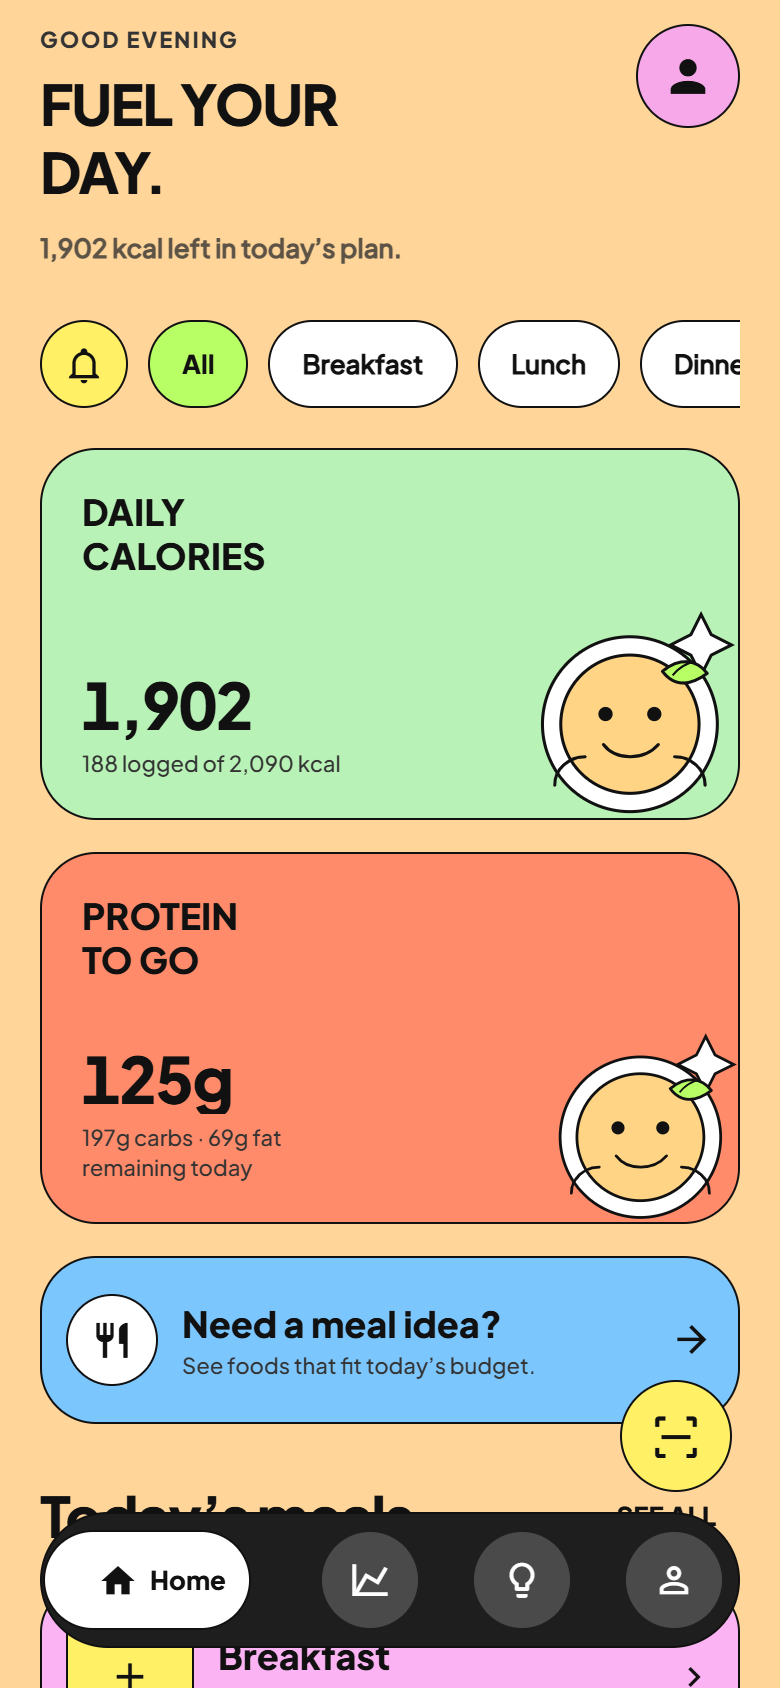
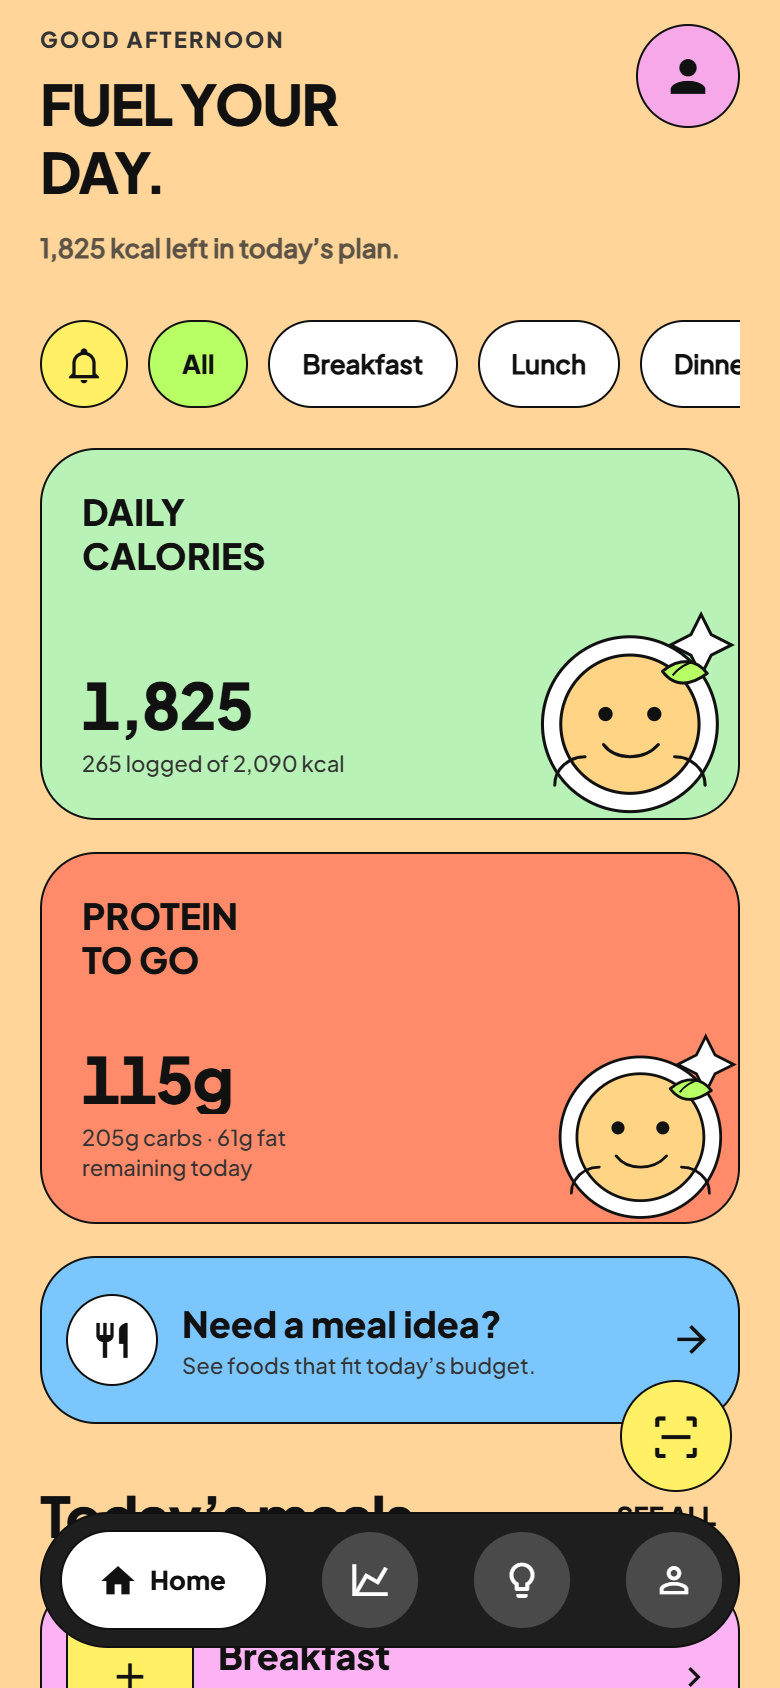
fix(website): show the current app screenshots on the landing page
The AI-result capture in assets/screens was still the pre-redesign green screen from the original site and nothing on the page referenced it any more. Replace it with a capture of the same screen from the current Expo build, and refresh the hero home capture from the same build.

Vercel caches /assets/screens/* for seven days under URLs that never changed, so a replaced screenshot could keep showing as the old one. Version the four app screenshots (plus the social image) so a deploy invalidates them.

diff --git a/apps/website/index.html b/apps/website/index.html
@@ -13,11 +13,11 @@
   <meta property="og:title" content="Nourish — Food you know. Numbers you trust.">
   <meta property="og:description" content="A simpler calorie tracker for Ethiopian food.">
   <meta property="og:url" content="https://nourish-kylosonic.vercel.app/">
-  <meta property="og:image" content="https://nourish-kylosonic.vercel.app/assets/screens/home.png">
+  <meta property="og:image" content="https://nourish-kylosonic.vercel.app/assets/screens/home.png?v=20261030.1">
   <meta name="twitter:card" content="summary_large_image">
   <meta name="twitter:title" content="Nourish — Food you know. Numbers you trust.">
   <meta name="twitter:description" content="Scan Ethiopian meals. Confirm the plate. Adjust the grams.">
-  <meta name="twitter:image" content="https://nourish-kylosonic.vercel.app/assets/screens/home.png">
+  <meta name="twitter:image" content="https://nourish-kylosonic.vercel.app/assets/screens/home.png?v=20261030.1">
 
   <link rel="icon" href="assets/favicon.svg" type="image/svg+xml">
   <link rel="preload" href="assets/fonts/BricolageGrotesque-ExtraBold.woff2" as="font" type="font/woff2" crossorigin>
@@ -82,7 +82,7 @@
           <figcaption>THE PLATE, UNDERSTOOD.</figcaption>
         </figure>
         <figure class="hero__app">
-          <img src="assets/screens/home.png" width="780" height="1688"
+          <img src="assets/screens/home.png?v=20261030.1" width="780" height="1688"
                alt="The redesigned Nourish home screen with pastel nutrition cards, playful food artwork, and floating navigation."
                loading="eager" fetchpriority="high">
         </figure>
@@ -117,13 +117,13 @@
             <span data-stage-index>01 / 03</span>
           </div>
           <div class="tour-stage__images">
-            <img class="is-active" data-shot="scan" src="assets/screens/scan-menu.png" width="780" height="1688"
+            <img class="is-active" data-shot="scan" src="assets/screens/scan-menu.png?v=20261030.1" width="780" height="1688"
                  loading="lazy" decoding="async"
                  alt="Nourish add-meal screen with camera, photo, search, and barcode options.">
-            <img data-shot="review" src="assets/screens/scan-result.png" width="780" height="1688"
+            <img data-shot="review" src="assets/screens/scan-result.png?v=20261030.1" width="780" height="1688"
                  loading="lazy" decoding="async"
                  alt="Nourish scan-review screen showing confidence, nutrition totals, and editable ingredients.">
-            <img data-shot="track" src="assets/screens/insights-clean.png" width="780" height="1688"
+            <img data-shot="track" src="assets/screens/insights-clean.png?v=20261030.1" width="780" height="1688"
                  loading="lazy" decoding="async"
                  alt="Nourish insights screen with a weekly summary and a prompt to log meals before trends appear.">
           </div>
